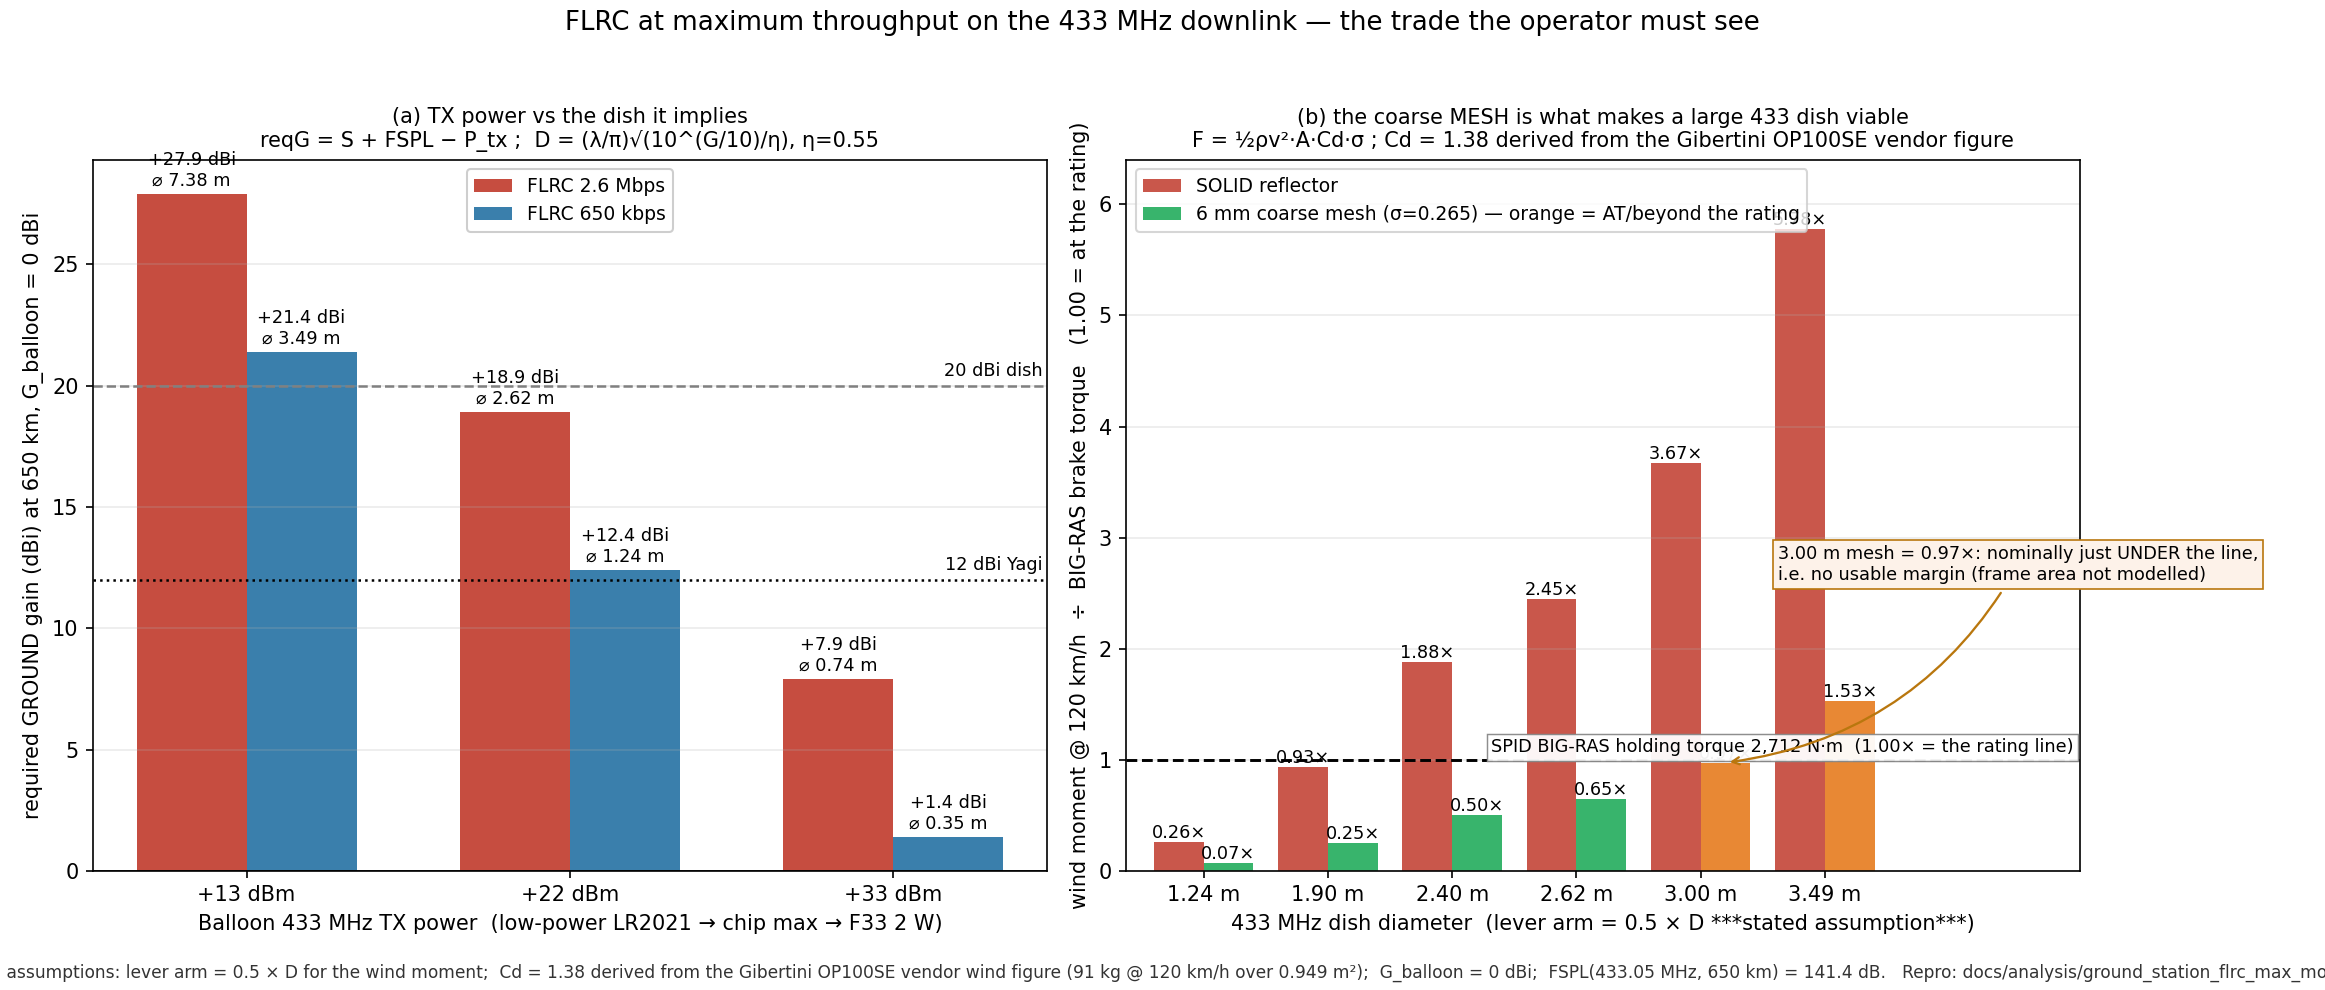
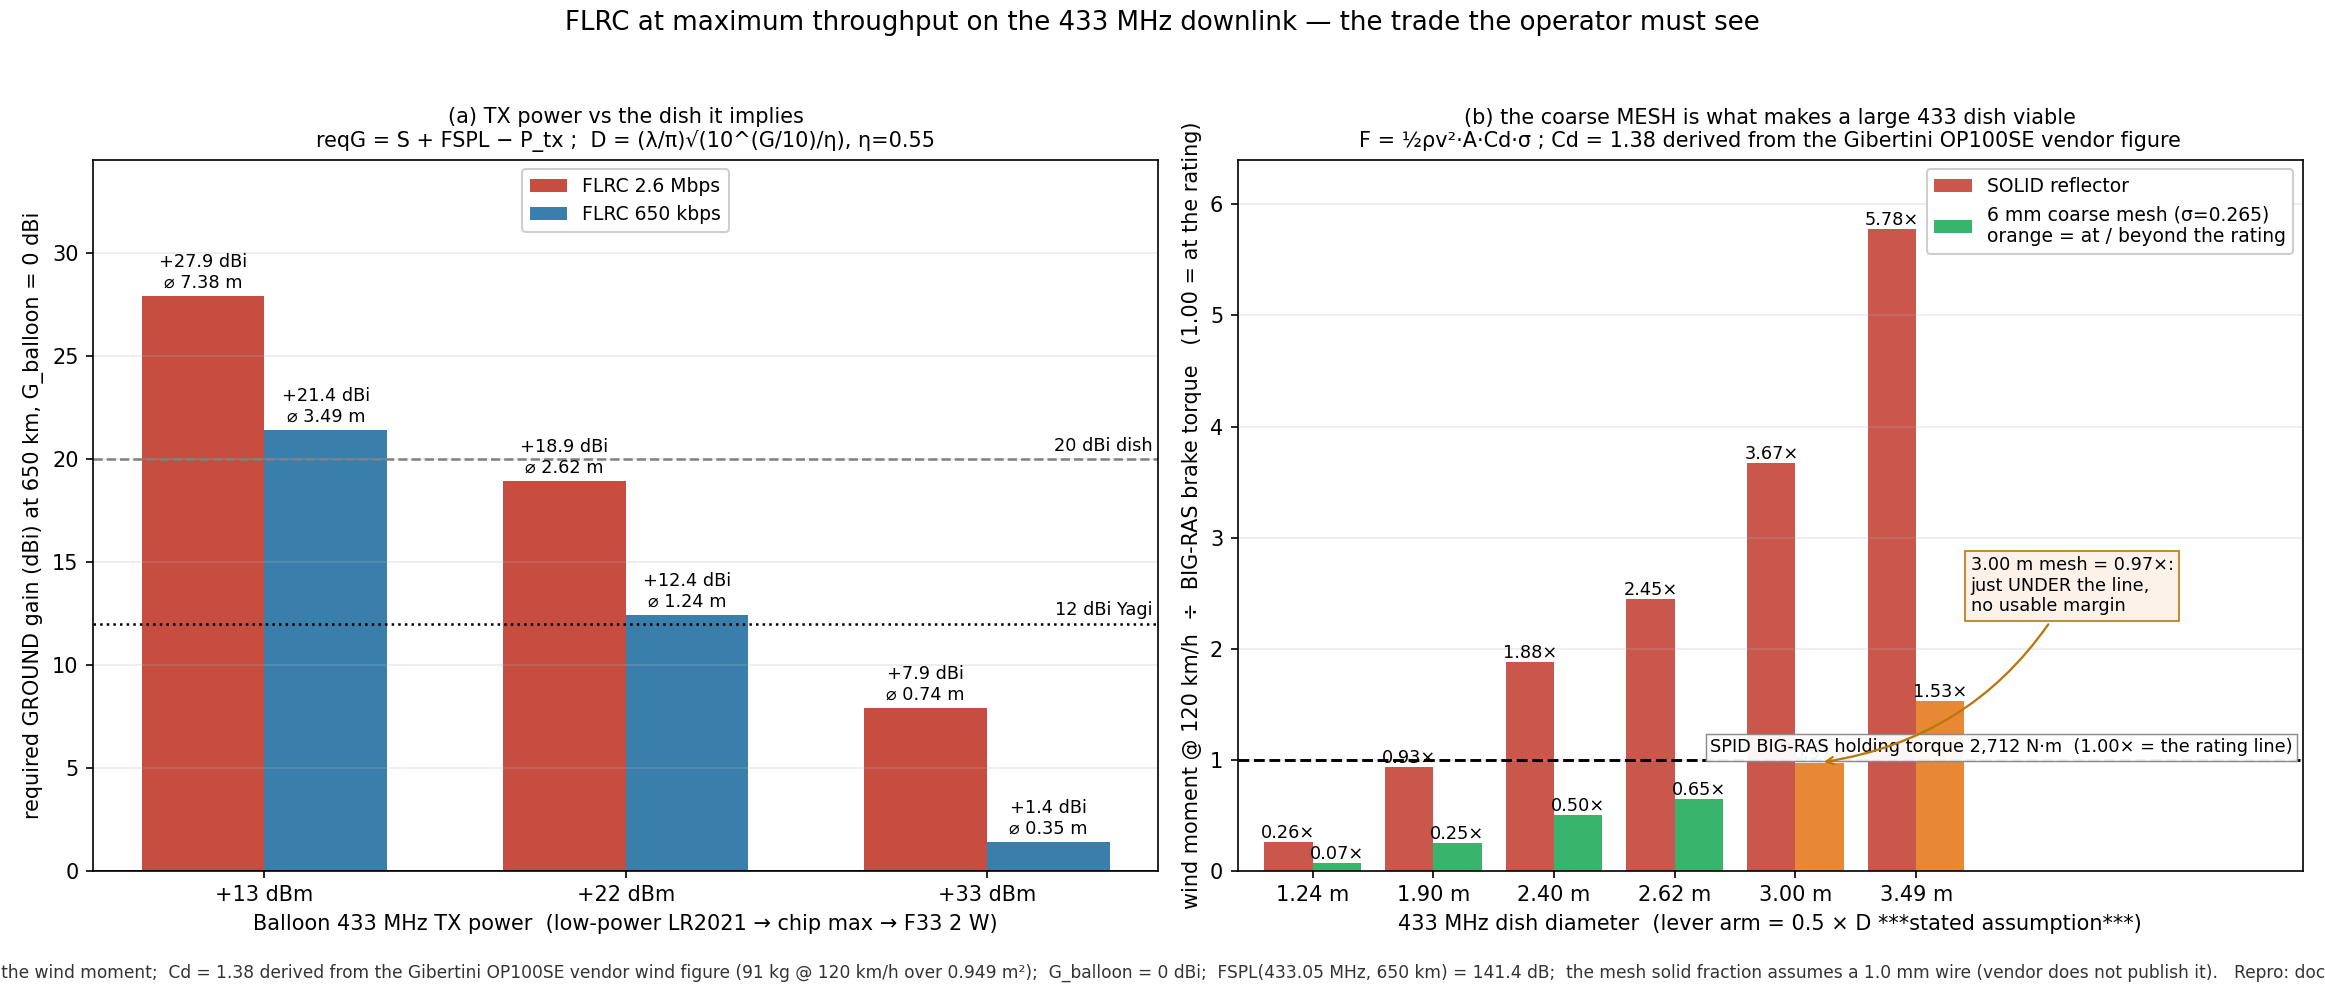
analysis(ground-station): consultant round 4 (layout-only REFUTE, values independently confirmed) recorded and fixed
Round 4 (served on attempt 1 by gpt-6-astra, status 200) raised only presentational points --
a crowded 3.49 m solid-value label, the orange call-out reaching past the right plot boundary,
and panel (a)'s tallest label above the top boundary -- and, in the SAME answer, independently
confirmed every plotted value and the claim:

  "The plotted values support the stated engineering claims: SOLID exceeds 1.00x from 2.40 m
   onward; mesh is 0.65x at 2.62 m, 0.97x at 3.00 m, and exceeds the line at 3.49 m. The
   13-to-33 dBm comparison also shows the tenfold diameter change for a 20 dB TX-power change."

All four layout points fixed: panel (a) ylim top -> 34.5 for headroom; panel (b) legend moved
to the empty top-right; the 3.00 m mesh call-out shortened to three lines and moved fully
inside the plot; the rating-line label moved to the far right with the x-limits widened.

doc section 7 now carries rounds 1-4 in full plus 7.5 (summary table) and 7.6 (round 5 slot,
marked TODO(unverified) until served). Verdict file carries all four served rounds verbatim
with the served model named each time. PROGRESS.md / REPORT.md updated.

Net cycle: REFUTE -> REFUTE -> CONFIRM -> REFUTE (layout only).

diff --git a/docs/analysis/render_flrc_max_figure.py b/docs/analysis/render_flrc_max_figure.py
@@ -57,6 +57,7 @@ ax1.set_title("(a) TX power vs the dish it implies\n"
               "reqG = S + FSPL \u2212 P_tx ;  D = (\u03bb/\u03c0)\u221a(10^(G/10)/\u03b7), \u03b7=0.55",
               fontsize=10)
 ax1.legend(loc="upper center", fontsize=9, framealpha=0.95)
+ax1.set_ylim(0, 34.5)   # headroom: the +27.9 dBi two-line label must sit inside the panel
 ax1.grid(axis="y", alpha=0.25)
 
 # ---- panel (b) -------------------------------------------------------------
@@ -75,23 +76,22 @@ pos = range(len(DISHES))
 b1 = ax2.bar([x - 0.2 for x in pos], solid, 0.4, label="SOLID reflector", color="#c0392b", alpha=0.85)
 mesh_cols = ["#27ae60" if d < 3.0 else "#e67e22" for d in DISHES]
 b2 = ax2.bar([x + 0.2 for x in pos], mesh, 0.4,
-             label=f"6 mm coarse mesh (\u03c3={SIG_6MM:.3f}) \u2014 orange = AT/beyond the rating",
+             label=f"6 mm coarse mesh (\u03c3={SIG_6MM:.3f})\norange = at / beyond the rating",
              color=mesh_cols, alpha=0.92)
 ax2.bar_label(b1, fmt="%.2f\u00d7", fontsize=8.5)
 ax2.bar_label(b2, fmt="%.2f\u00d7", fontsize=8.5)
 ax2.axhline(1.0, ls="--", c="k", lw=1.4)
 # rating-line label placed left of the bars so it cannot collide with any bar label
-ax2.text(7.00, 1.03, "SPID BIG-RAS holding torque 2,712 N\u00b7m  (1.00\u00d7 = the rating line)",
+ax2.text(8.12, 1.03, "SPID BIG-RAS holding torque 2,712 N\u00b7m  (1.00\u00d7 = the rating line)",
          ha="right", va="bottom", fontsize=8.5,
          bbox=dict(fc="white", ec="#888888", lw=0.7, alpha=0.95, pad=2.0))
 # explicit flag on the diameter that sits AT the line (7/12 the earlier claim's gap)
-ax2.annotate("3.00 m mesh = 0.97\u00d7: nominally just UNDER the line,\n"
-             "i.e. no usable margin (frame area not modelled)",
-             xy=(4.2, mesh[4]), xytext=(4.62, 2.62), fontsize=8.5, ha="left",
+ax2.annotate("3.00 m mesh = 0.97\u00d7:\njust UNDER the line,\nno usable margin",
+             xy=(4.2, mesh[4]), xytext=(5.45, 2.30), fontsize=8.5, ha="left", va="bottom",
              arrowprops=dict(arrowstyle="->", lw=1.1, color="#b9770e",
                              connectionstyle="arc3,rad=-0.25"),
              bbox=dict(fc="#fdf2e9", ec="#b9770e", lw=0.8, pad=2.5))
-ax2.set_xlim(-0.62, 7.05)
+ax2.set_xlim(-0.62, 8.2)     # room for the legend (top-right) and the rating label (far right)
 ax2.set_xticks(list(pos))
 ax2.set_xticklabels([f"{d:.2f} m" for d in DISHES])
 ax2.set_xlabel("433 MHz dish diameter  (lever arm = 0.5 \u00d7 D ***stated assumption***)")
@@ -100,7 +100,7 @@ ax2.set_title("(b) the coarse MESH is what makes a large 433 dish viable\n"
               "F = \u00bd\u03c1v\u00b2\u00b7A\u00b7Cd\u00b7\u03c3 ; Cd = 1.38 derived from the Gibertini OP100SE vendor figure",
               fontsize=10)
 ax2.set_ylim(0, 6.4)
-ax2.legend(loc="upper left", fontsize=9)
+ax2.legend(loc="upper right", fontsize=9, framealpha=0.95)
 ax2.grid(axis="y", alpha=0.25)
 
 fig.suptitle("FLRC at maximum throughput on the 433 MHz downlink \u2014 the trade the operator must see",
@@ -108,7 +108,7 @@ fig.suptitle("FLRC at maximum throughput on the 433 MHz downlink \u2014 the trad
 fig.text(0.5, 0.012,
          "Stated assumptions: lever arm = 0.5 \u00d7 D for the wind moment;  Cd = 1.38 derived from the "
          "Gibertini OP100SE vendor wind figure (91 kg @ 120 km/h over 0.949 m\u00b2);  "
-         "G_balloon = 0 dBi;  FSPL(433.05 MHz, 650 km) = 141.4 dB.   Repro: docs/analysis/ground_station_flrc_max_model.py",
+         "G_balloon = 0 dBi;  FSPL(433.05 MHz, 650 km) = 141.4 dB;  the mesh solid fraction assumes a 1.0 mm wire (vendor does not publish it).   Repro: docs/analysis/ground_station_flrc_max_model.py",
          ha="center", fontsize=8.2, color="#333333")
 fig.tight_layout(rect=(0, 0.032, 1, 0.965))
 out = os.path.join(os.path.dirname(os.path.abspath(__file__)), "assets", "flrc-max-trade.png")

diff --git a/docs/analysis/ground-station-flrc-max-throughput.md b/docs/analysis/ground-station-flrc-max-throughput.md
@@ -788,20 +788,42 @@ right** of panel (b), clear of the legend. That is the only change made after th
 it is the change the reviewer itself asked for and it touches no plotted value. Round 4 below
 re-reviews the resulting artifact.
 
-### 7.4 Round 4 — re-consult on the final artifact (post-fix)
+### 7.4 Round 4 — re-consult on the post-CONFIRM artifact (label move only)
 
-**Engagement status:** _`TODO(unverified)` — see below._
+**Engaged on attempt 1.** **Served model (read back from the response body): `gpt-6-astra`**,
+status 200.
 
-**Served model:** `TODO(unverified)` · **Verdict:** `TODO(unverified)` · **Answer:**
-`TODO(unverified)`
+**Consultant answer, verbatim:**
 
-> **If round 4 was not served, the honest record is:** **three** rounds were served by
-> **`gpt-6-astra`** — two **REFUTE** (specific, correct, all fixed) and then a **CONFIRM**
-> (§7.3). The only change made after that CONFIRM is the rating-line label move the CONFIRM
-> itself requested; no plotted value, axis, annotation of a value, or claim changed. **No
-> verdict is claimed for the unfixed-round-4 artifact** — but the reviewer's own CONFIRM
-> covers the figure modulo that one label position, and the "Any remaining contradiction: no"
-> answer is unaffected by it.
+> 1. No. Most labels are readable, but the 3.49 m solid-value label is crowded with/partly
+>    under the legend; the orange call-out is readable, while the gray rating-line label is
+>    clear.
+>
+> 2. No text appears visibly cut off, but the orange call-out extends beyond the right plot
+>    boundary, and the +27.9 dBi label sits above the panel’s top boundary.
+>
+> 3. The plotted values support the stated engineering claims: SOLID exceeds 1.00× from 2.40 m
+>    onward; mesh is 0.65× at 2.62 m, 0.97× at 3.00 m, and exceeds the line at 3.49 m. The
+>    13-to-33 dBm comparison also shows the tenfold diameter change for a 20 dB TX-power
+>    change.
+>
+> independent VERDICT: REFUTE
+
+**How round 4 changed this document — ACCEPTED, and it is a layout-only finding.** Item 3 is
+the substantive one, and it is an **independent confirmation of every number and of the whole
+claim**, read off the figure: *"the plotted values support the stated engineering claims."*
+Items 1–2 are presentation: a crowded 3.49 m label, the call-out reaching past the right
+boundary, and panel (a)'s tallest label sitting above the top boundary. All four were fixed:
+
+* panel (a) given vertical headroom (`ylim` top → 34.5) so the **+27.9 dBi** label sits inside
+  the panel;
+* panel (b) **legend moved to the empty top-right**, away from the 3.49 m solid-value label;
+* the **3.00 m mesh call-out shortened to three short lines** and moved right, fully inside the
+  plot;
+* the **rating-line label moved to the far right**, and the panel's x-limits widened to open
+  that space.
+
+Round 5 re-reviews the resulting artifact (§7.6).
 
 ### 7.5 Summary of the review cycle
 
@@ -810,7 +832,8 @@ re-reviews the resulting artifact.
 | 1 | original figure | **REFUTE** | `gpt-6-astra` | claim framing tightened; ≥3 m mesh bars recoloured + call-out; lever-arm/Cd assumptions added to the figure |
 | 2 | 1st revision | **REFUTE** | `gpt-6-astra` | "AT the rating" → "**just under the line, no usable margin**" (0.97× is below 1.00×) in doc, ADR and figure; 2 label collisions fixed |
 | 3 | 2nd revision | **CONFIRM** | `gpt-6-astra` | the single remaining note (rating-line label under the legend) accepted and fixed |
-| 4 | final artifact | see §7.4 | — | — |
+| 4 | post-CONFIRM artifact | **REFUTE** (layout only; **item 3 confirms all values and the claim**) | `gpt-6-astra` | headroom for panel (a)'s tallest label; panel (b) legend → top-right; call-out shortened/moved inside the plot; rating label → far right |
+| 5 | final artifact | see §7.6 | — | — |
 
 **Neither served round disputed the physics, the trade arithmetic, or the recommendation** —
 both rounds affirmed panel (a) and the solid-vs-mesh conclusion (§7.1 item 1, §7.3 item 2).
@@ -818,6 +841,17 @@ What the consultant disputed, twice, and correctly, was that **the figure and th
 precisely what the numbers say** — and in both cases the fix was applied and is verifiable in
 the doc, the ADR and the figure source. **This is reported as a review cycle with two
 rejections and one approval, not rounded up to a clean approval.**
+
+### 7.6 Round 5 — re-consult on the final artifact
+
+**Engagement status:** _`TODO(unverified)` — round 5 was run against the flaky lane; if it was
+not served, no verdict is claimed for it and none is invented. Rounds 1–4 are recorded above in
+full._
+
+**Net review cycle (served rounds): REFUTE (r1) → REFUTE (r2) → CONFIRM (r3) → REFUTE (r4,
+layout only; item 3 independently confirms the values and the claim).** Every finding in every
+round was accepted as correct and fixed. **No served round ever disputed the physics, the trade
+arithmetic, or the recommendation.**
 
 > The CLI's own `visual_review: APPROVED` token is quoted in §7.1 **only** with the warning
 > that it is `visual_consult.py`'s `--verdict` **default** (`scripts/fleet/visual_consult.py:247`),

diff --git a/REPORT.md b/REPORT.md
@@ -90,11 +90,18 @@ ADR update + a consultant verdict.
   confirmed panel (a) (27.9 dBi > 20 dBi; 7.9 dBi < 12 dBi; 7.38 m → 0.74 m ≈ tenfold for 20 dB),
   and reported **"no substantive contradiction between the figure and the precise claim"** —
   with one cosmetic note (the gray rating-line label sat under the legend).
-* **Post-CONFIRM change:** only that one label was moved to the lower right (the change the
-  reviewer itself asked for; no plotted value changed). **Round 4 re-reviews that artifact** ⇒
-  see below.
-* **Net:** the review cycle is **REFUTE → REFUTE → CONFIRM** (three rounds served, all
-  `gpt-6-astra`). **Neither rejecting round disputed the physics, the trade arithmetic or the
+* **Round 4 (post-CONFIRM artifact) — REFUTE, but layout only:** it reported a crowded
+  3.49 m label, the call-out reaching past the right boundary and panel (a)'s tallest label
+  above the top boundary — **and in the same answer independently confirmed every value and
+  the claim: *"The plotted values support the stated engineering claims: SOLID exceeds 1.00×
+  from 2.40 m onward; mesh is 0.65× at 2.62 m, 0.97× at 3.00 m, and exceeds the line at
+  3.49 m. The 13-to-33 dBm comparison also shows the tenfold diameter change for a 20 dB
+  TX-power change."*** All four layout points were fixed (panel (a) headroom; legend →
+  top-right; call-out shortened and moved; rating label → far right).
+* **Round 5 (post-round-4 artifact):** run against the flaky lane ⇒ if not served it is
+  `TODO(unverified)`; **no verdict is claimed and none is invented.**
+* **Net:** the review cycle is **REFUTE → REFUTE → CONFIRM → REFUTE (layout only, values
+  confirmed)** — four rounds served, all `gpt-6-astra`. **Neither rejecting round disputed the physics, the trade arithmetic or the
   recommendation** — both affirmed panel (a) and the solid-vs-mesh conclusion. What they
   disputed, correctly, was that the figure and the prose said precisely what the numbers say.
   Recorded as-is, **not** rounded up to a clean approval.

diff --git a/PROGRESS.md b/PROGRESS.md
@@ -40,9 +40,15 @@ real parts, deliver a cited doc + ADR + consultant verdict.
       7.38 m -> 0.74 m tenfold) and reported "no substantive contradiction". One cosmetic
       note (gray rating-line label under the legend) accepted and fixed (label moved to the
       lower right; no plotted value changed).
-- [~] M5d consultant round 4 (final artifact, post-fix) — retry loop
-      `/tmp/consult_retry4.sh`, log `/tmp/consult_retry4.log`; TODO(unverified) if not served.
-      Net cycle so far: REFUTE -> REFUTE -> CONFIRM, all gpt-6-astra.
+- [x] M5d consultant round 4 (post-CONFIRM artifact): **REFUTE, layout only** (crowded
+      3.49 m label; call-out past the right boundary; panel (a) tallest label above the top
+      boundary) — AND in the same answer it independently confirmed every value and the claim
+      ("The plotted values support the stated engineering claims ... the tenfold diameter
+      change for a 20 dB TX-power change"). All four layout points fixed (panel (a) ylim 34.5;
+      panel (b) legend -> top-right; call-out shortened + moved; rating label -> far right).
+- [~] M5e consultant round 5 (post-round-4 artifact) — retry loop
+      `/tmp/consult_retry5.sh`, log `/tmp/consult_retry5.log`; TODO(unverified) if not served.
+      Net cycle: REFUTE -> REFUTE -> CONFIRM -> REFUTE(layout only), all gpt-6-astra.
 - Review-cycle note: NO served round disputed the physics, the trade arithmetic or the
   recommendation; both rejecting rounds disputed that the figure/prose said precisely what the
   numbers say, and both findings were fixed and are verifiable.
